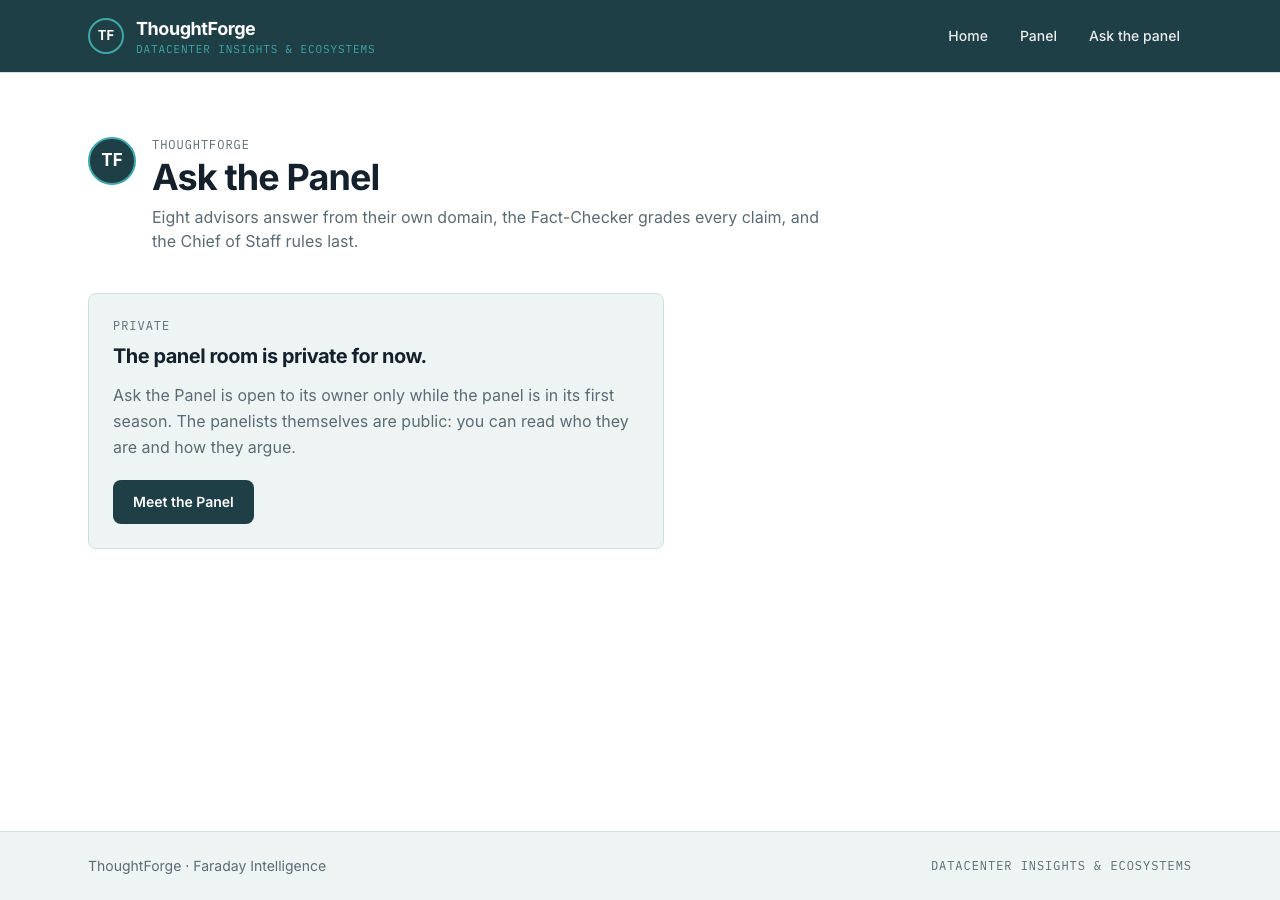
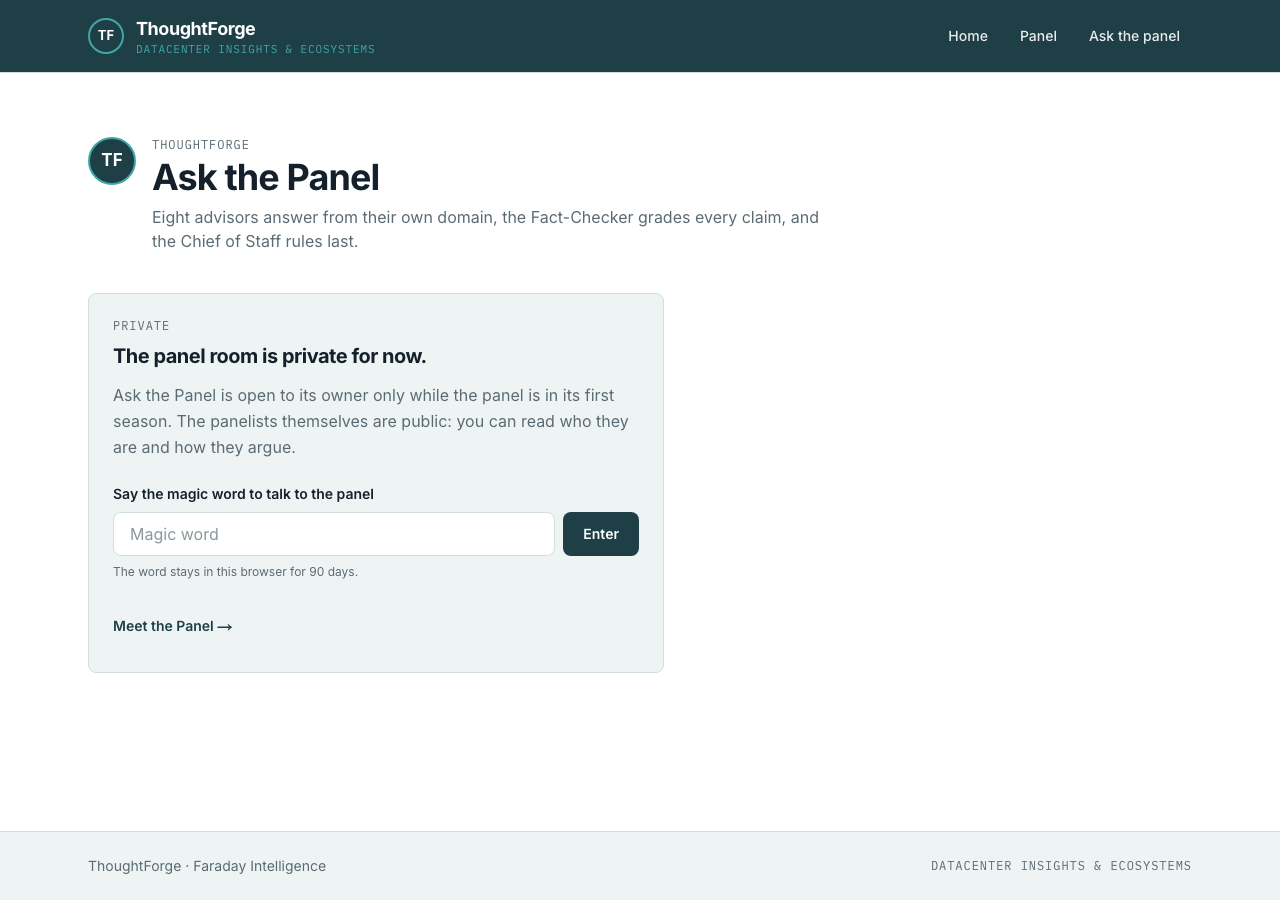
TH-32: magic-word form on the locked /ask page
The locked state now carries a 'Say the magic word to talk to the panel'
form that submits the word as ?key=, so the existing gate checks it and sets
the 90-day cookie. A wrong word redirects to /ask?denied=1 (the guess never
stays in the address bar) and the page says so. The screenshot run drives the
form both ways and asserts no cookie on a wrong word.

Changed region(s): [[0.0625, 0.5289, 0.2812, 0.6533], [0.4375, 0.56, 0.5, 0.6222], [0.0938, 0.6844, 0.1875, 0.7156]]

diff --git a/app/ask/page.tsx b/app/ask/page.tsx
@@ -14,8 +14,9 @@ export const metadata: Metadata = {
 
 export const dynamic = "force-dynamic";
 
-export default async function AskPage() {
+export default async function AskPage({ searchParams }: { searchParams: Promise<{ denied?: string }> }) {
   const locked = (await headers()).get("x-tf-locked") === "1";
+  const denied = locked && (await searchParams).denied === "1";
   const bySlug = new Map(PANEL_SORTED.map((m) => [m.slug, m]));
   const panelists = PANEL_ORDER.map((s) => bySlug.get(s)!);
 
@@ -41,11 +42,42 @@ export default async function AskPage() {
               Ask the Panel is open to its owner only while the panel is in its first season. The panelists themselves are public:
               you can read who they are and how they argue.
             </p>
+            <form method="get" action="/ask" className="mt-6 flex flex-col gap-2" aria-describedby={denied ? "magic-word-denied" : undefined}>
+              <label htmlFor="magic-word" className="text-sm font-semibold text-ink">
+                Say the magic word to talk to the panel
+              </label>
+              <div className="flex flex-col gap-2 sm:flex-row">
+                <input
+                  id="magic-word"
+                  name="key"
+                  type="password"
+                  autoComplete="off"
+                  autoCapitalize="off"
+                  spellCheck={false}
+                  required
+                  placeholder="Magic word"
+                  className="min-h-11 flex-1 rounded-card border border-line bg-surface px-4 text-base text-ink placeholder:text-ink-muted/70 focus:border-accent"
+                />
+                <button
+                  type="submit"
+                  className="inline-flex min-h-11 items-center justify-center rounded-card bg-primary px-5 text-sm font-semibold text-surface hover:bg-primary/90"
+                >
+                  Enter
+                </button>
+              </div>
+              {denied ? (
+                <p id="magic-word-denied" role="alert" className="text-sm text-accent">
+                  That was not the word. Try again.
+                </p>
+              ) : (
+                <p className="text-xs text-ink-muted">The word stays in this browser for 90 days.</p>
+              )}
+            </form>
             <Link
               href="/panel"
-              className="mt-5 inline-flex min-h-11 items-center rounded-card bg-primary px-5 text-sm font-semibold text-surface hover:bg-primary/90"
+              className="mt-6 inline-flex min-h-11 items-center text-sm font-semibold text-primary underline-offset-4 hover:underline"
             >
-              Meet the Panel
+              Meet the Panel →
             </Link>
           </section>
         ) : (

diff --git a/scripts/screenshots.ts b/scripts/screenshots.ts
@@ -76,13 +76,23 @@ try {
     await page.screenshot({ path: `${OUT}/ask-locked.png`, fullPage: false });
     const api = await page.request.post("http://localhost:3992/api/ask", { data: { question: "x" } });
     if (api.status() !== 401) throw new Error(`locked /api/ask returned ${api.status()}, expected 401`);
-    await page.goto(`http://localhost:3992/ask?key=${key}`, { waitUntil: "networkidle" });
+    // Wrong magic word: still locked, says so, and the guess is not left in the address bar.
+    await page.fill("#magic-word", "not-the-word");
+    await page.click("form button[type=submit]");
+    await page.waitForSelector("text=That was not the word.");
+    if (page.url().includes("key=")) throw new Error("a wrong ?key= was left in the address bar");
+    if ((await ctx.cookies()).some((x) => x.name === "tf_access")) throw new Error("a wrong magic word set the cookie");
+    await page.screenshot({ path: `${OUT}/ask-locked-denied.png`, fullPage: false });
+    // Right magic word through the form.
+    await page.fill("#magic-word", key);
+    await page.click("form button[type=submit]");
+    await page.waitForURL((u) => u.pathname === "/ask" && !u.searchParams.has("key"));
     if (page.url().includes("key=")) throw new Error("the ?key= query was not stripped on redirect");
     const cookies = await ctx.cookies();
     const c = cookies.find((x) => x.name === "tf_access");
     if (!c || !c.httpOnly || c.value.length !== 64) throw new Error("tf_access cookie not set as expected");
     await page.waitForSelector("#question");
-    console.log("wrote ask-locked.png; ?key= exchange set an httpOnly 64-hex tf_access cookie and unlocked /ask; locked /api/ask answered 401");
+    console.log("wrote ask-locked.png, ask-locked-denied.png; wrong word denied without a cookie; the magic-word form set an httpOnly 64-hex tf_access cookie and unlocked /ask; locked /api/ask answered 401");
     await ctx.close();
   } finally {
     locked.kill();

diff --git a/proxy.ts b/proxy.ts
@@ -7,7 +7,9 @@
  *  - ?key=<TF_ACCESS_KEY>                               -> set the cookie (httpOnly, secure,
  *                                                          sameSite lax, 90 days) and redirect
  *                                                          to the same path without the query
- *  - otherwise                                          -> /ask renders locked (x-tf-locked: 1),
+ *  - otherwise                                          -> /ask renders locked (x-tf-locked: 1) with a
+ *                                                          magic-word form; a wrong ?key= redirects to
+ *                                                          /ask?denied=1 so the page can say so;
  *                                                          /api/ask answers 401
  *  - TF_ACCESS_KEY unset (local dev)                    -> allow everything, warn once
  */
@@ -51,6 +53,13 @@ export async function proxy(req: NextRequest) {
 
   if (pathname.startsWith("/api/")) {
     return NextResponse.json({ error: "Ask the Panel is private." }, { status: 401 });
+  }
+  if (presented) {
+    // Wrong magic word: redirect so the guess never stays in the address bar; ?denied=1 lets the page say so.
+    const clean = req.nextUrl.clone();
+    clean.searchParams.delete("key");
+    clean.searchParams.set("denied", "1");
+    return NextResponse.redirect(clean);
   }
   const headers = new Headers(req.headers);
   headers.set("x-tf-locked", "1");
